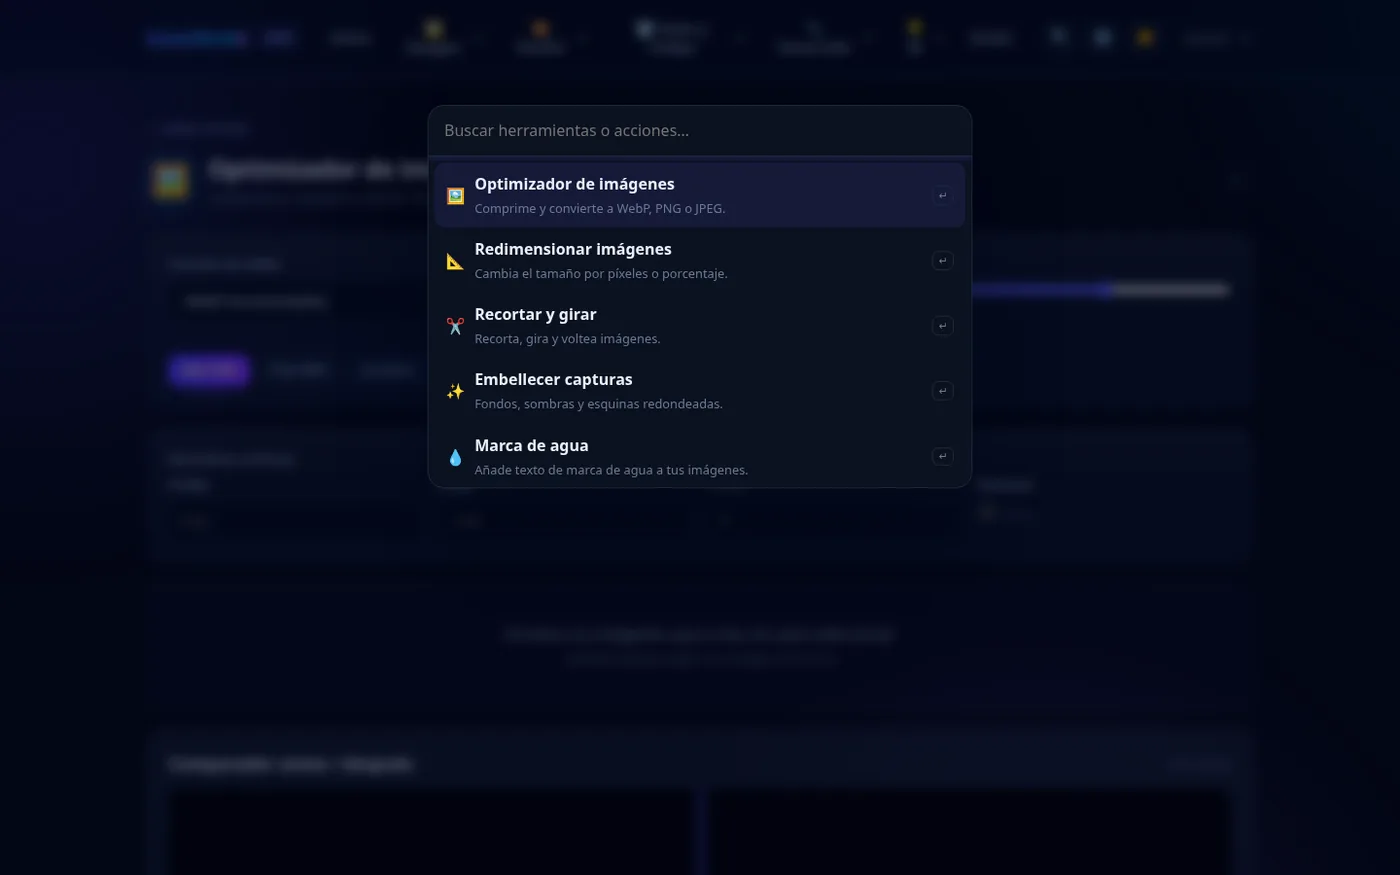
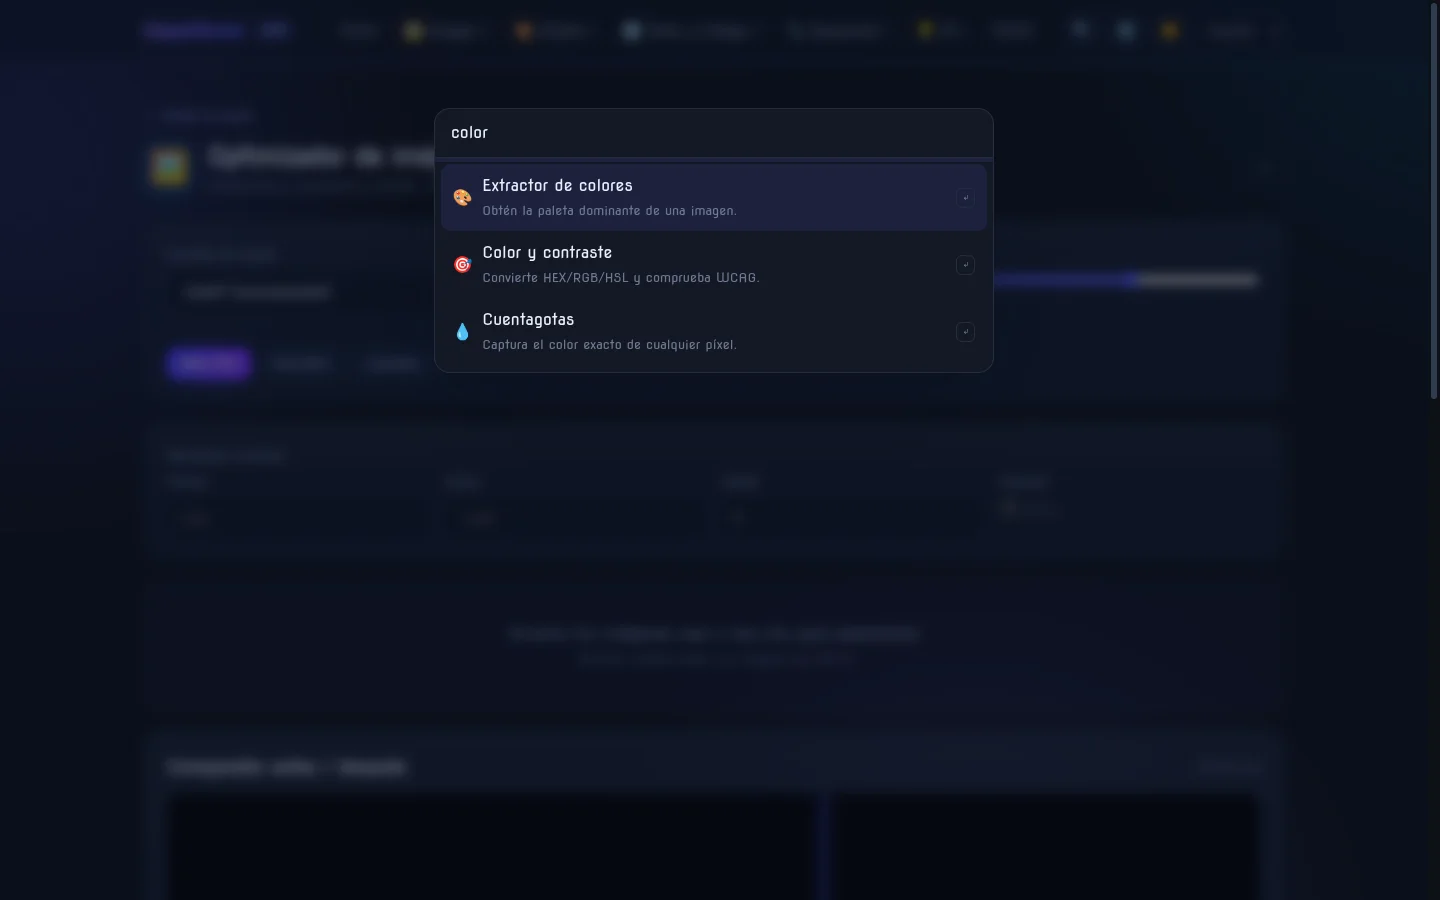
docs: actualiza capturas de la UI (v3.2.0) y amplía la galería del README

diff --git a/README.md b/README.md
@@ -29,20 +29,24 @@ AssetShrink es una caja de herramientas de escritorio que arranca un servidor lo
 
 <table>
   <tr>
-    <td width="50%" align="center"><img src="docs/img/landing-dark.webp" alt="Interfaz en tema oscuro"></td>
-    <td width="50%" align="center"><img src="docs/img/landing-light.webp" alt="Interfaz en tema claro"></td>
+    <td width="33%" align="center"><img src="docs/img/landing-dark.webp" alt="Interfaz en tema oscuro"></td>
+    <td width="33%" align="center"><img src="docs/img/landing-light.webp" alt="Interfaz en tema claro"></td>
+    <td width="33%" align="center"><img src="docs/img/optimizer-dark.webp" alt="Optimizador con comparador antes/después"></td>
   </tr>
   <tr>
     <td align="center"><sub>Tema oscuro (sigue al sistema)</sub></td>
     <td align="center"><sub>Tema claro</sub></td>
+    <td align="center"><sub>Comparador antes/después — PNG de 1&nbsp;MB → WebP de 57&nbsp;KB (<b>-94&nbsp;%</b>)</sub></td>
   </tr>
   <tr>
-    <td width="50%" align="center"><img src="docs/img/optimizer-dark.webp" alt="Optimizador con comparador antes/después"></td>
-    <td width="50%" align="center"><img src="docs/img/command-palette-dark.webp" alt="Command palette (Ctrl/Cmd+K)"></td>
+    <td width="33%" align="center"><img src="docs/img/command-palette-dark.webp" alt="Command palette (Ctrl/Cmd+K)"></td>
+    <td width="33%" align="center"><img src="docs/img/palette-dark.webp" alt="Extractor de colores con paleta dominante"></td>
+    <td width="33%" align="center"><img src="docs/img/gradient-dark.webp" alt="Generador de degradados"></td>
   </tr>
   <tr>
-    <td align="center"><sub>Comparador antes/después tras comprimir</sub></td>
     <td align="center"><sub>Command palette <kbd>Ctrl/Cmd</kbd>+<kbd>K</kbd></sub></td>
+    <td align="center"><sub>Extractor de colores (motor C++)</sub></td>
+    <td align="center"><sub>Generador de degradados con export CSS</sub></td>
   </tr>
 </table>
 
